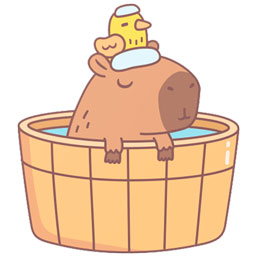
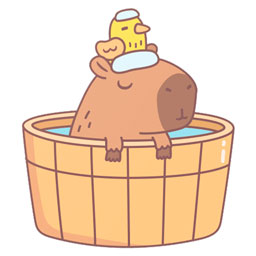
Added blur load image functionality.

Changed region(s): [[0.0625, 0.0, 0.9375, 1.0], [0.5938, 0.3438, 0.625, 0.4688], [0.6562, 0.3438, 0.6875, 0.375]]

diff --git a/frontend/src/components/ConfirmModal.js b/frontend/src/components/ConfirmModal.js
@@ -10,11 +10,22 @@ export default class ConfirmModal {
       isDeleteAllTasksModal = false
     } = {}
   ) {
-    imgLm === null 
-      ? imgLm = `
-        <img class="confirm-modal__recycle-placeholder-img" src="public/assets/images/recycle/garbage-collector-${this.utils.getRandomNumber(1, 6)}.jpg" alt="A drawing of a garbage collector taking out the trash." />
-      `
-      : imgLm
+
+    const getImgLm = () => {
+      if (imgLm === null) {
+        const array = new Array(6);
+        const randomNumber = this.utils.getNonRepeatingRandomIndex(array, 'confirmModal', true);
+
+        return `
+          <div style="background-image: url('public/assets/images/recycle/garbage-collector-low-res-${randomNumber}.jpg')" class="confirm-modal__image-container blur-img-loader">
+            <img class="confirm-modal__recycle-placeholder-img" src="public/assets/images/recycle/garbage-collector-${randomNumber}.jpg" alt="A drawing of a garbage collector taking out the trash." />
+          </div>
+        `;
+      }
+      else {
+        return imgLm;
+      }
+    }
 
     const optionalActiveOrCompletedTasksDelete = () => {
       return `
@@ -28,9 +39,7 @@ export default class ConfirmModal {
     return `
       <div id="confirm-modal-container" class="confirm-modal-container">
         <div class="confirm-modal" id="confirm-modal" role="alertdialog" aria-describedby="confirm-modal__desc">
-          <div id="confirm-modal__image-container">
-            ${imgLm}
-          </div>
+          ${getImgLm()}
           <button title="Close modal" aria-label="Close modal." type="button" class="confirm-modal__close-btn appear-bg-from-center rounded dark-soft" id="confirm-modal__close-btn">
             <svg aria-hidden="true" focusable="false" role="presentation" class="confirm-modal__close-icon" xmlns="http://www.w3.org/2000/svg" viewBox="0 0 24 24">
               <path fill="none" stroke="currentColor" stroke-linecap="round" stroke-linejoin="round" stroke-width="2" d="M18 6L6 18M6 6l12 12"></path>

diff --git a/frontend/src/App.js b/frontend/src/App.js
@@ -26,19 +26,23 @@ import PomodoroTimerView from "./views/PomodoroTimerView.js";
 import UserMenuView from "./views/UserMenuView.js";
 import UserMenuController from "./controllers/UserMenuController.js";
 import LogoutView from "./views/LogoutView.js";
+import LoadHandler from "./services/LoadHandler.js";
 
 document.addEventListener('DOMContentLoaded', () => {
   const modalHandler = new ModalHandler;
   const router = new Router(modalHandler);
   const utils = new Utils;
   const appLm = document.getElementById('App');
+  const loadHandler = new LoadHandler;
 
   // TODO Refactor and finish application
 
   // Add routes
   router.addRoute('/', () => {
     appLm.innerHTML = DashboardPage.getHtml();
+    loadHandler.blurLoadImages();
     const themeHandler = new ThemeHandler(utils);
+    themeHandler.setRandomTheme();
 
     // User menu
     const userMenuView = new UserMenuView(modalHandler);
@@ -47,8 +51,8 @@ document.addEventListener('DOMContentLoaded', () => {
     // Task manager
     const auth = new Auth;
     const userModel = new UserModel(router, auth);
-    const modalView = new ModalView(modalHandler, utils);
-    const taskManagerView = new TaskManagerView(modalHandler, modalView, utils);
+    const modalView = new ModalView(modalHandler, utils, loadHandler);
+    const taskManagerView = new TaskManagerView(modalHandler, modalView, utils, loadHandler);
     const tokenHandler = new TokenHandler(router, userModel, auth);
     const taskModel = new TaskModel(router, auth, tokenHandler);
     new TaskManagerController(taskManagerView, taskModel, auth, modalView, utils);

diff --git a/frontend/src/services/LoadHandler.js b/frontend/src/services/LoadHandler.js
@@ -1,0 +1,38 @@
+export default class LoadHandler {
+  blurLoadImages() {
+    const elements = document.querySelectorAll('.blur-img-loader');
+
+    elements.forEach(imgContainerLm => {
+      // Select the thumbnail image within the container
+      const thumbnailImg = imgContainerLm.querySelector('img');
+    
+      // Function to handle actions once the image is fully loaded
+      function loaded() {
+        // Add the 'loaded' class to the container, indicating the image has loaded
+        imgContainerLm.classList.add('loaded');
+        // Set the image's 'aria-busy' attribute indicating that has finished loading
+        thumbnailImg.ariaBusy = 'false';
+  
+        // Delay to smoothly transition from low-res to full-res image
+        setTimeout(() => {
+          // Remove the low-resolution background image
+          imgContainerLm.style.backgroundImage = 'none';
+          // Remove blur img container loader background color 
+          imgContainerLm.style.backgroundColor = 'transparent';
+        }, 250);
+      }
+    
+      // If the image has already been fully loaded, trigger the loaded function immediately
+      if (thumbnailImg.complete) {
+        loaded();
+      } 
+      // Otherwise, add an event listener to handle the image load event
+      else {
+        console.log('add load event')
+        thumbnailImg.addEventListener('load', loaded);
+        // Mark the image as loadeing via 'aria-busy' attribute
+        thumbnailImg.ariaBusy = 'true';
+      }
+    });
+  }
+}

diff --git a/frontend/src/components/InfoModal.js b/frontend/src/components/InfoModal.js
@@ -6,8 +6,10 @@ export default class InfoModal {
   ) {
     return `
       <div id="info-modal-container" class="info-modal-container">
-        <div class="info-modal" id="info-modal" role="dialog" aria-describedby="dialog__desc">
-          <img class="capybara-placeholder-img" src="public/assets/images/drawings/chilling-capybara.jpg" alt="A drawing of capybara having a bath in a hot tub with a rubber duck on its head."/>
+        <div class="info-modal" id="info-modal" role="dialog" aria-describedby="info-modal__desc">
+          <div style="background-image: url('public/assets/images/drawings/chilling-capybara-low-res.jpg')" class="info-modal__image-container blur-img-loader">
+            <img class="capybara-placeholder-img" src="public/assets/images/drawings/chilling-capybara.jpg" alt="A drawing of capybara having a bath in a hot tub with a rubber duck on its head."/>
+          </div>  
           <button title="Close dialog" aria-label="Close dialog." type="button" class="info-modal__close-btn appear-bg-from-center rounded dark-soft" id="info-modal__close-btn">
             <svg aria-hidden="true" focusable="false" role="presentation" class="info-modal__close-icon" xmlns="http://www.w3.org/2000/svg" viewBox="0 0 24 24">
               <path fill="none" stroke="currentColor" stroke-linecap="round" stroke-linejoin="round" stroke-width="2" d="M18 6L6 18M6 6l12 12"></path>

diff --git a/frontend/src/services/Utils.js b/frontend/src/services/Utils.js
@@ -105,16 +105,26 @@ export default class Utils {
   getRandomNumber = (min, max) => Math.floor(Math.random() * (max - min + 1) + min);
 
   // Returns a random index from the array that is not equal to the lastIndex
-  getNonRepeatingRandomIndex(array, lastIndexKey) {
+  getNonRepeatingRandomIndex(array, lastIndexKey, notIndexed = false) {
     const lastIndex = this.lastIndexes[lastIndexKey];
+    let randomIndex = 0;
 
     // Generate a random index between 0 and array.length - 1
-    const randomIndex = Math.floor(Math.random() * array.length);
+    if (notIndexed) {
+      console.log(array)
+      console.log(array.length)
+      // Generate random index between 1 and array.length (inclusive)
+      randomIndex = Math.floor(Math.random() * array.length) + 1;
+    } 
+    else {
+      // Generate random index between 0 and array.length - 1
+      randomIndex = Math.floor(Math.random() * array.length);
+    }
 
     if (randomIndex === lastIndex) {
       console.log('recalculating index')
       // Otherwise, recursively call the function until a different index is found
-      return this.getNonRepeatingRandomIndex(array, lastIndexKey);
+      return this.getNonRepeatingRandomIndex(array, lastIndexKey, notIndexed);
     }
 
     // Update the lastIndexes to store the new random index

diff --git a/frontend/src/views/TaskManagerView.js b/frontend/src/views/TaskManagerView.js
@@ -3,13 +3,14 @@ import TaskCompleted from '../pages/dashboard/components/CompletedTask.js';
 import TasksListPlaceholder from '../pages/dashboard/components/TasksListPlaceholder.js';
 import TasksListLoader from '../pages/dashboard/components/TasksListLoader.js';
 import TasksListError from '../pages/dashboard/components/TasksListError.js';
-import EmptyTasksListPlaceholder from '../pages/dashboard/components/emptyTasksListPlacehodler.js';
+import EmptyTasksListPlaceholder from '../pages/dashboard/components/EmptyTasksListPlacehodler.js';
 
 export default class TaskManagerView {
-  constructor(modalHandler, modalView, utils) {
+  constructor(modalHandler, modalView, utils, loadHandler) {
     this.modalHandler = modalHandler;
     this.modalView = modalView;
     this.utils = utils;
+    this.loadHandler = loadHandler;
     this.timIds = {};
     this.controllerMethods = {};
     this.lms = {
@@ -253,7 +254,9 @@ export default class TaskManagerView {
     if (taskData.length === 0) {
       this.lms.tasksContainerLm.innerHTML = this.getCurrentSearchValue() 
         ? EmptyTasksListPlaceholder.getHtml() 
-        : TasksListPlaceholder.getHtml() 
+        : TasksListPlaceholder.getHtml()
+
+      this.loadHandler.blurLoadImages();
       return;
     }
 

diff --git a/frontend/src/pages/dashboard/components/emptyTasksListPlacehodler.js b/frontend/src/pages/dashboard/components/emptyTasksListPlacehodler.js
@@ -2,7 +2,9 @@ export default class EmptyTasksListPlaceholder {
   static getHtml() {
     return `
       <li class="task-manager__empty-list-placeholder-container">
-        <img id="task-manager__empty-list-placeholder-img" class="task-manager__empty-list-placeholder-img" src="public/assets/images/drawings/no-tasks-found-placeholder.png" alt="Drawing of a capybara, with an orange on its head, riding another capybara that at the same time is riding a crocodile">
+        <div style="background-image: url('public/assets/images/drawings/no-tasks-found-placeholder-low-res.jpg" class="task-manager__empty-list-placeholder-img-container blur-img-loader">
+          <img id="task-manager__empty-list-placeholder-img" class="task-manager__empty-list-placeholder-img" src="public/assets/images/drawings/no-tasks-found-placeholder.jpg" alt="Drawing of a capybara, with an orange on its head, riding another capybara that at the same time is riding a crocodile">
+        </div>
       </li>
     `;
   }

diff --git a/frontend/src/pages/dashboard/components/TasksListPlaceholder.js b/frontend/src/pages/dashboard/components/TasksListPlaceholder.js
@@ -2,7 +2,9 @@ export default class TasksListPlaceholder {
   static getHtml() {
     return `
       <li class="task-manager__empty-list-placeholder-container">
-        <img id="task-manager__empty-list-placeholder-img" class="task-manager__empty-list-placeholder-img" src="public/assets/images/drawings/everything-done-placeholder.png" alt="Drawing of a capybara, with an orange on its head, riding another capybara that at the same time is riding a crocodile">
+        <div style="background-image: url('public/assets/images/drawings/empty-task-list-placeholder-low-res.jpg" class="task-manager__empty-list-placeholder-img-container blur-img-loader">
+          <img id="task-manager__empty-list-placeholder-img" class="task-manager__empty-list-placeholder-img" src="public/assets/images/drawings/empty-task-list-placeholder.jpg" alt="Drawing of a capybara, with an orange on its head, riding another capybara that at the same time is riding a crocodile">
+        </div>
       </li>
     `;
   }

diff --git a/frontend/src/views/ModalView.js b/frontend/src/views/ModalView.js
@@ -7,9 +7,10 @@ import InfoMaxTasksModal from "../components/InfoMaxTasksModal.js";
 import InfoEmptyTaskListModal from "../components/InfoEmptyTaskListModal.js";
 
 export default class ModalView {
-  constructor(modalHandler, utils) {
+  constructor(modalHandler, utils, loadHandler) {
     this.modalHandler = modalHandler;
     this.utils = utils;
+    this.loadHandler = loadHandler;
 
     this.lms = {};
 
@@ -102,6 +103,7 @@ export default class ModalView {
 
     document.body.insertAdjacentHTML('afterbegin', infoModalHtml);
     this.setModalDomRefs();
+    this.loadHandler.blurLoadImages();
   }
 
   generateConfirmModal(modalType) {
@@ -126,8 +128,9 @@ export default class ModalView {
         break;
     }
 
-  document.body.insertAdjacentHTML('afterbegin', confirmModalHtml);
-  this.setModalDomRefs();
+    document.body.insertAdjacentHTML('afterbegin', confirmModalHtml);
+    this.setModalDomRefs();
+    this.loadHandler.blurLoadImages();
   }
 
   generateEditModal() {

diff --git a/frontend/src/styles/dashboard.css b/frontend/src/styles/dashboard.css
@@ -130,7 +130,7 @@ main.dashboard-view {
   padding: 10px 0;
   position: sticky;
   top: -31px;
-  width: 101%;
+  width: 100%;
   background-color: #fff;
   z-index: 10;
   display: flex;
@@ -187,6 +187,7 @@ main.dashboard-view {
   .task-manager__tasks-list {
     margin-top: 25px;
     flex: 1;
+    border: 2px solid blue;
   }
 
   /* PLACEHOLDER IMAGE */
@@ -195,15 +196,24 @@ main.dashboard-view {
     display: flex;
     align-items: center;
     justify-content: center;
-    padding: 0 0 40px;
+    padding: 40px;
     height: 100%;
     width: 100%;
     background-color: rgb(248, 248, 248);
     border-radius: 5px;
+    border: 2px solid blue;
+  }
+
+  .task-manager__empty-list-placeholder-img-container {
+    border: 2px solid green;
+    width: 200px;
+    height: 200px;
   }
 
   .task-manager__empty-list-placeholder-img {
-    width: 200px;
+    width: 100%;
+    height: 100%;
+    border: 2px solid red;
   }
 
   .task-manager__list-loader-container {

diff --git a/frontend/src/styles/main.css b/frontend/src/styles/main.css
@@ -59,6 +59,47 @@ main {
   opacity: 0;
 }
 
+/* BLUR IMAGE PROGRESSIVE LOADER */
+
+.blur-img-loader {
+  position: relative;
+  background-size: cover;
+  background-position: center;
+}
+
+.blur-img-loader::before {
+  content: "";
+  position: absolute;
+  inset: 0;
+  animation: pulse 1.25s infinite ease-in-out alternate;
+}
+
+.blur-img-loader.loaded::before {
+  content: none;
+}
+
+.blur-img-loader img {
+  opacity: 0;
+  transition: opacity 0.25s ease-in-out;
+  object-fit: cover;
+  object-position: center;
+}
+
+.blur-img-loader.loaded img {
+  opacity: 1;
+}
+
+@keyframes pulse {
+  from {
+    background-color: rgba(255, 255, 255, 0);
+  }
+  to {
+    background-color: rgba(255, 255, 255, 0.25);
+  }
+}
+
+/* END OF BLUR IMAGE PROGRESSIVE LOADER */
+
 /* UI COMPONENTS */
 
 .appear-bg-from-center,

diff --git a/frontend/src/components/ConfirmCompleteTaskModal.js b/frontend/src/components/ConfirmCompleteTaskModal.js
@@ -5,7 +5,11 @@ export default class ConfirmCompleteTaskModal {
     return ConfirmModal.getHtml(
       {
         description: 'Are you sure that you want to complete this task?',
-        imgLm: '<img class="capybara-placeholder-img" src="public/assets/images/drawings/chilling-capybara.jpg" alt="A drawing of capybara having a bath in a hot tub with a rubber duck on its head." />',
+        imgLm: `
+          <div style="background-image: url('public/assets/images/drawings/chilling-capybara-low-res.jpg')" class="confirm-modal__image-container blur-img-loader">
+            <img class="capybara-placeholder-img" src="public/assets/images/drawings/chilling-capybara.jpg" alt="A drawing of capybara having a bath in a hot tub with a rubber duck on its head." />
+          </div>
+        `
       }
     );
   }
